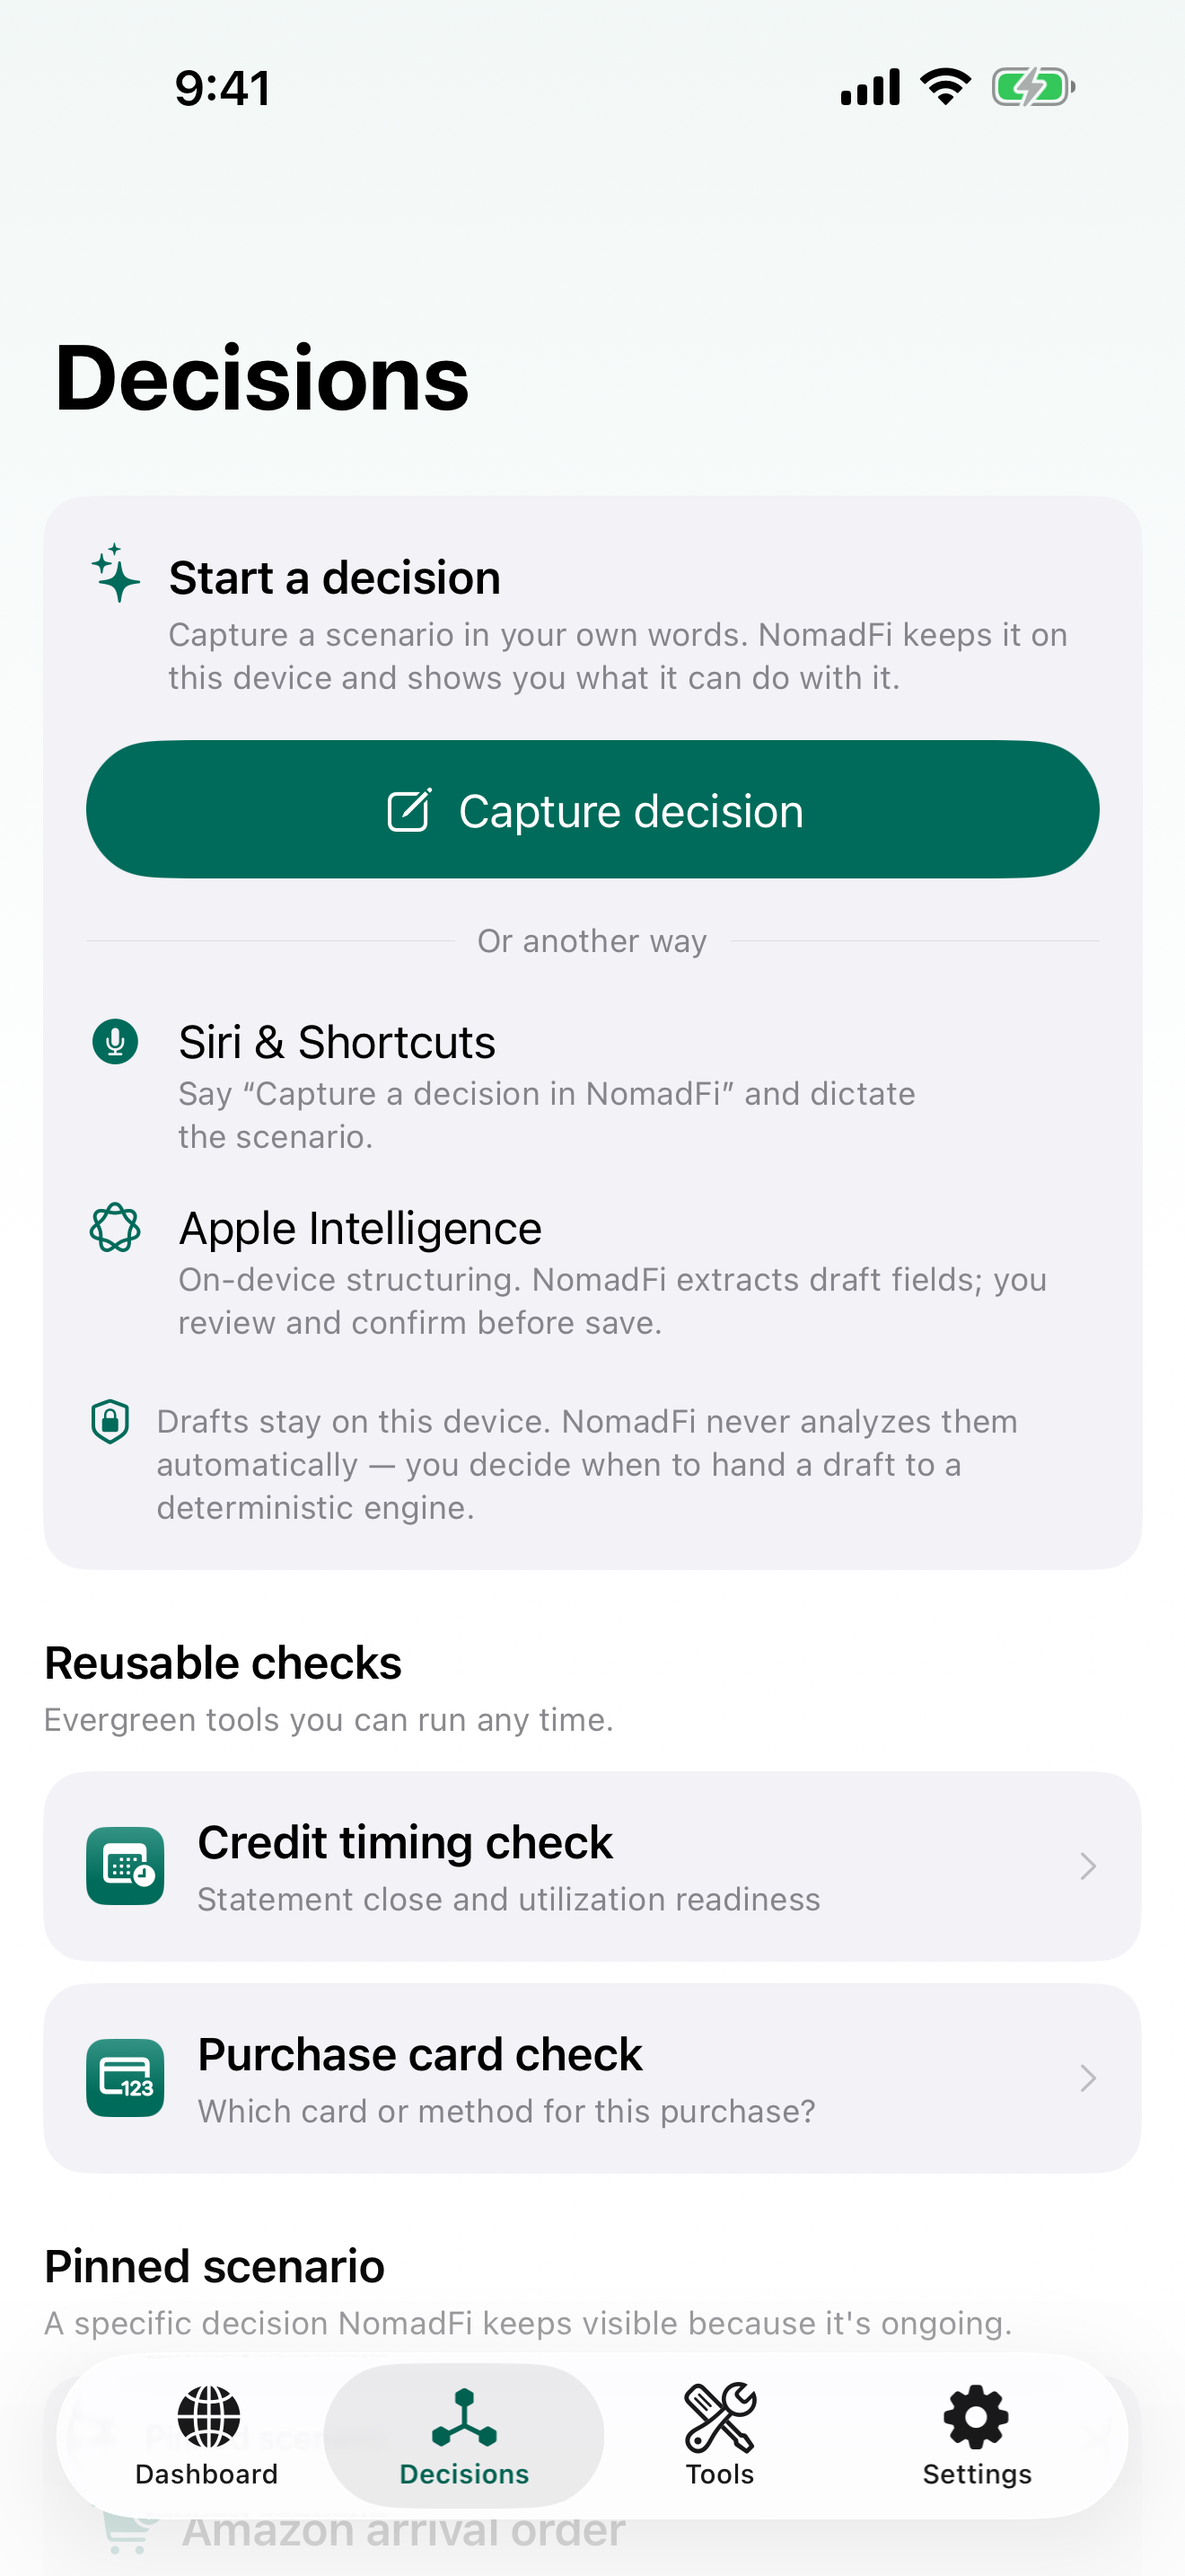
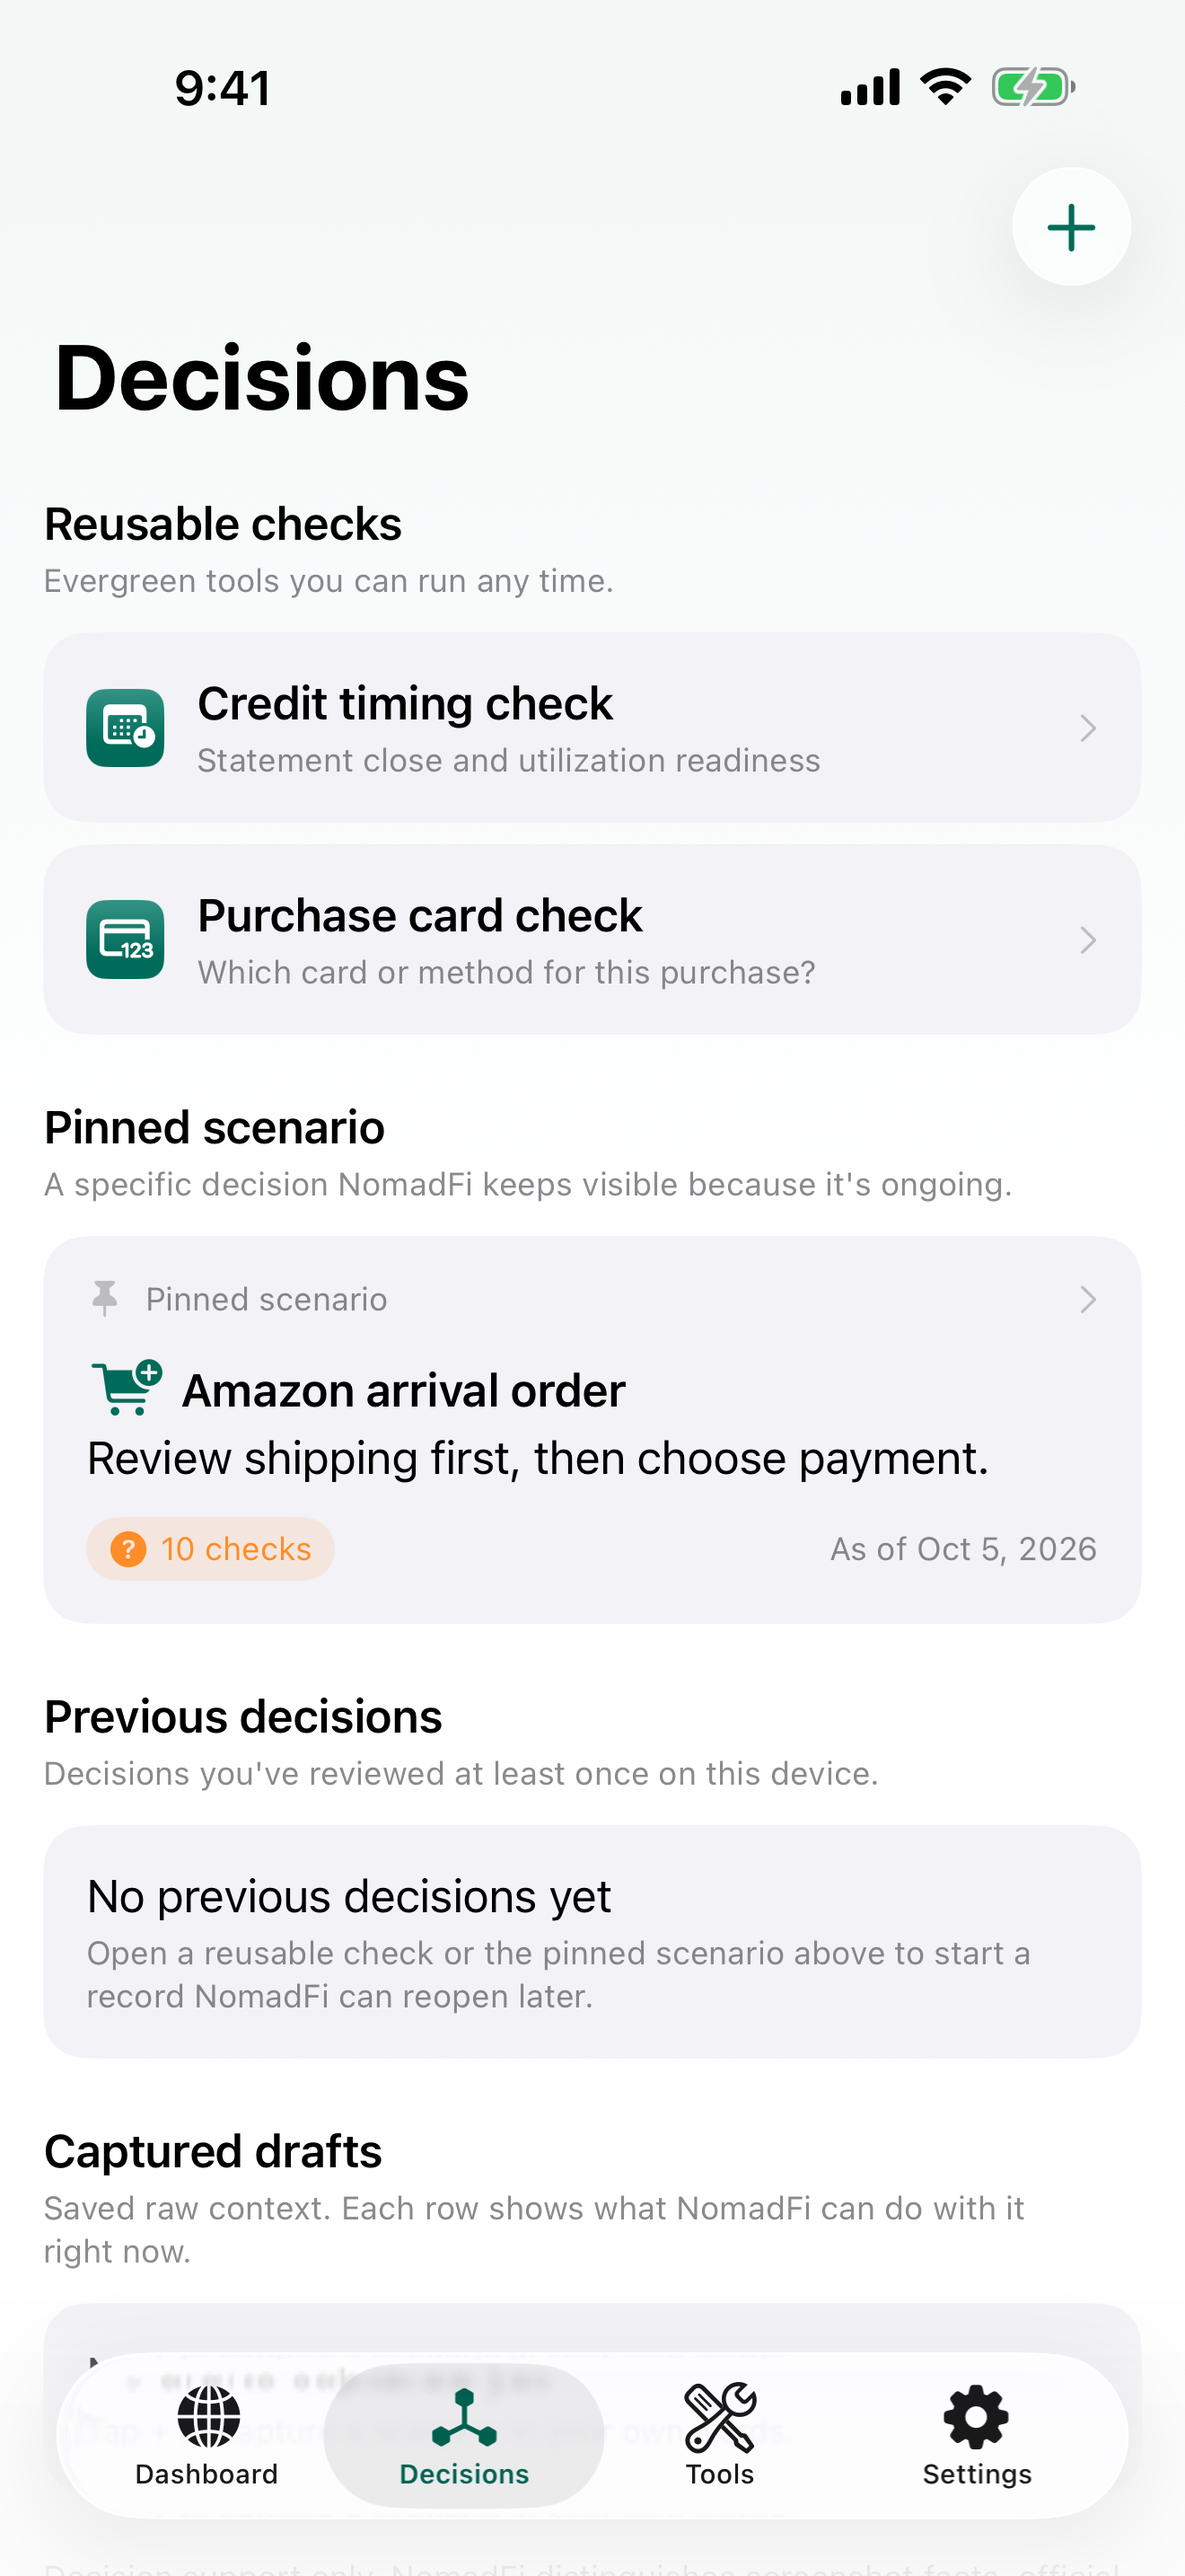
Decisions: capture with a toolbar +, not a hero card
The Decisions tab opened on a large card — a green "Capture decision"
button, an "Or another way" divider, Siri and Apple Intelligence rows,
and a paragraph about drafts — pushing the decisions themselves down.

Capturing is now the toolbar's +, where people already look to add
something. A tap opens the typed form; touch and hold offers "Describe
with Apple Intelligence" (Menu with a primary action, as in Mail's
compose button). The page opens straight onto the reusable checks.
Siri phrases stay discoverable through App Shortcuts in Spotlight and
the Shortcuts app.

CaptureDecisionButton replaces DecisionAssistantCaptureHero. The empty
drafts state now reads "Tap + to capture a scenario in your own words."
testCaptureDecisionFromToolbar covers both the tap and the long press;
the Decisions listing screenshot is recaptured.

diff --git a/NomadFi/NomadFi/Features/DecisionAssistant/DecisionAssistantView.swift b/NomadFi/NomadFi/Features/DecisionAssistant/DecisionAssistantView.swift
@@ -1,19 +1,20 @@
 // DecisionAssistantView.swift
 // NomadFi
 //
-// The Decisions tab's root screen. IA/UI redesign: the surface is
-// organised into six sectioned bands so the user immediately sees
-// (1) how to start a decision, (2) which checks are reusable
-// tools, (3) which scenarios are pinned, (4) which decisions they
-// have actually reviewed, (5) where captured drafts live, and
-// (6) which drafts they have archived. Lower-priority sections
-// progressively disclose so the screen never feels infinite.
+// The Decisions tab's root screen. Capturing a decision is the
+// toolbar's + (a long press offers Apple Intelligence); the page
+// itself is organised into sectioned bands so the user immediately
+// sees (1) which checks are reusable tools, (2) which scenarios are
+// pinned, (3) which decisions they have actually reviewed, (4) where
+// captured drafts live, and (5) which drafts they have archived.
+// Lower-priority sections progressively disclose so the screen never
+// feels infinite.
 //
 // Layout follows Apple's HIG layout + scroll-views + accessibility
 // guidance:
 //   • One primary vertical scroll only.
 //   • Strong section headers per region; calm visual hierarchy.
-//   • Capture decision is the dominant first-viewport command.
+//   • Adding lives in the toolbar, where people look to add things.
 //   • Reusable tools, pinned scenarios, history, and drafts each
 //     read as a different kind of thing.
 //   • Drafts and archived drafts cap at a small preview with a
@@ -154,6 +155,14 @@ struct DecisionAssistantView: View {
             .ignoresSafeArea()
         }
         .navigationTitle("Decisions")
+        .toolbar {
+            ToolbarItem(placement: .primaryAction) {
+                CaptureDecisionButton(
+                    onCapture: { viewModel.presentDraftForm() },
+                    onDescribe: { viewModel.presentAIIntake() }
+                )
+            }
+        }
         .task { viewModel.bootstrap(modelContext: modelContext) }
         .onChange(of: pendingAIIntakeRaw, initial: true) { _, _ in
             consumePendingAIIntakeIfAvailable()
@@ -386,23 +395,20 @@ private struct DecisionAssistantContent: View {
     var body: some View {
         LazyVStack(spacing: SpacingTokens.large) {
 
-            // 1. Capture decision — primary command module.
-            DecisionAssistantCaptureSection(viewModel: viewModel)
-
-            // 2. Reusable checks — evergreen tools.
+            // 1. Reusable checks — evergreen tools.
             DecisionAssistantReusableChecksSection(
                 viewModel: viewModel,
                 onOpenDecision: onOpenDecision
             )
 
-            // 3. Pinned scenario — situational, not a tool.
+            // 2. Pinned scenario — situational, not a tool.
             DecisionAssistantPinnedScenarioSection(
                 viewModel: viewModel,
                 allAccounts: allAccounts,
                 onOpenDecision: onOpenDecision
             )
 
-            // 4. Previous decisions — actually reviewed only.
+            // 3. Previous decisions — actually reviewed only.
             DecisionAssistantHistorySection(
                 viewModel: viewModel,
                 allAccounts: allAccounts,
@@ -410,14 +416,14 @@ private struct DecisionAssistantContent: View {
                 onOpenDecision: onOpenDecision
             )
 
-            // 5. Captured drafts — saved raw context.
+            // 4. Captured drafts — saved raw context.
             DecisionAssistantDraftsSection(
                 items: draftItems,
                 expanded: $draftsExpanded,
                 onDraftTapped: onDraftTapped
             )
 
-            // 6. Archived drafts — only when non-empty.
+            // 5. Archived drafts — only when non-empty.
             if !archivedDraftItems.isEmpty {
                 DecisionAssistantArchivedDraftsSection(
                     items: archivedDraftItems,
@@ -433,21 +439,7 @@ private struct DecisionAssistantContent: View {
     }
 }
 
-// MARK: - 1. Capture decision
-
-private struct DecisionAssistantCaptureSection: View {
-
-    @Bindable var viewModel: DecisionAssistantViewModel
-
-    var body: some View {
-        DecisionAssistantCaptureHero(
-            onCaptureTapped: { viewModel.presentDraftForm() },
-            onAppleIntelligenceTapped: { viewModel.presentAIIntake() }
-        )
-    }
-}
-
-// MARK: - 2. Reusable checks
+// MARK: - 1. Reusable checks
 
 private struct DecisionAssistantReusableChecksSection: View {
 
@@ -475,7 +467,7 @@ private struct DecisionAssistantReusableChecksSection: View {
     }
 }
 
-// MARK: - 3. Pinned scenario
+// MARK: - 2. Pinned scenario
 
 private struct DecisionAssistantPinnedScenarioSection: View {
 
@@ -511,7 +503,7 @@ private struct DecisionAssistantPinnedScenarioSection: View {
     }
 }
 
-// MARK: - 4. Previous decisions
+// MARK: - 3. Previous decisions
 
 private struct DecisionAssistantHistorySection: View {
 
@@ -593,7 +585,7 @@ private struct DecisionAssistantHistoryEmptyState: View {
     }
 }
 
-// MARK: - 5. Captured drafts
+// MARK: - 4. Captured drafts
 
 /// Drafts v3 alignment preserved: each row surfaces evaluator-
 /// derived readiness ("Engine ready", "Add amount first", "Review
@@ -680,7 +672,7 @@ private struct DecisionAssistantDraftsEmptyState: View {
             VStack(alignment: .leading, spacing: SpacingTokens.xxSmall) {
                 Text("No drafts captured yet")
                     .font(TypographyTokens.body)
-                Text("Tap Capture decision above to save a scenario. NomadFi shows what it can do with each draft on its detail sheet — without auto-analyzing anything.")
+                Text("Tap + to capture a scenario in your own words.")
                     .font(TypographyTokens.caption)
                     .foregroundStyle(.secondary)
                     .fixedSize(horizontal: false, vertical: true)
@@ -689,7 +681,7 @@ private struct DecisionAssistantDraftsEmptyState: View {
     }
 }
 
-// MARK: - 6. Archived drafts
+// MARK: - 5. Archived drafts
 
 /// Quieter secondary list of archived drafts. Only renders when
 /// the user actually has archived drafts. Same progressive-

diff --git a/NomadFi/NomadFi/Features/DecisionAssistant/Components/CaptureDecisionButton.swift b/NomadFi/NomadFi/Features/DecisionAssistant/Components/CaptureDecisionButton.swift
@@ -1,0 +1,45 @@
+// CaptureDecisionButton.swift
+// NomadFi
+//
+// The Decisions tab's add button.
+
+import SwiftUI
+
+/// The trailing **+** that captures a decision.
+///
+/// A tap opens the typed form; a long press offers the alternative,
+/// describing the decision to on-device Apple Intelligence — the same
+/// pattern as Mail's compose button. One control in the toolbar, where
+/// people already look to add something, instead of a hero card
+/// competing with the decisions themselves.
+struct CaptureDecisionButton: View {
+
+    /// Opens the typed capture form.
+    let onCapture: () -> Void
+
+    /// Opens the Apple Intelligence intake.
+    let onDescribe: () -> Void
+
+    var body: some View {
+        Menu {
+            Button("Describe with Apple Intelligence", systemImage: "apple.intelligence", action: onDescribe)
+        } label: {
+            Label("Capture Decision", systemImage: "plus")
+        } primaryAction: {
+            onCapture()
+        }
+        .accessibilityHint("Touch and hold to describe it with Apple Intelligence.")
+        .accessibilityIdentifier("decisions.capture")
+    }
+}
+
+#Preview {
+    NavigationStack {
+        Text("Decisions")
+            .toolbar {
+                ToolbarItem(placement: .primaryAction) {
+                    CaptureDecisionButton(onCapture: {}, onDescribe: {})
+                }
+            }
+    }
+}

diff --git a/NomadFi/NomadFiUITests/NomadFiUITests.swift b/NomadFi/NomadFiUITests/NomadFiUITests.swift
@@ -89,6 +89,28 @@ final class NomadFiUITests: XCTestCase {
         add(countryPage)
     }
 
+    /// + captures a decision; touch and hold offers Apple Intelligence.
+    @MainActor
+    func testCaptureDecisionFromToolbar() {
+        let app = makeApp(hasCompletedOnboarding: true)
+        app.launch()
+
+        XCTAssertTrue(app.tabBars.buttons["Decisions"].waitForExistence(timeout: 8))
+        app.tabBars.buttons["Decisions"].tap()
+
+        let capture = app.buttons["decisions.capture"]
+        XCTAssertTrue(capture.waitForExistence(timeout: 8))
+
+        // XCUITest's synthesised press needs longer than a person's
+        // touch-and-hold before the menu replaces the primary action.
+        capture.press(forDuration: 2)
+        XCTAssertTrue(app.buttons["Describe with Apple Intelligence"].waitForExistence(timeout: 8))
+        app.tap()
+
+        capture.tap()
+        XCTAssertTrue(app.navigationBars["Capture decision"].waitForExistence(timeout: 8))
+    }
+
     @MainActor
     func testExchangeRatesOpenFromTools() {
         let app = makeApp(hasCompletedOnboarding: true)

diff --git a/NomadFi/NomadFi/Features/DecisionAssistant/DecisionAssistantViewModel.swift b/NomadFi/NomadFi/Features/DecisionAssistant/DecisionAssistantViewModel.swift
@@ -78,7 +78,7 @@ final class DecisionAssistantViewModel {
 
     /// True when the decision-draft capture sheet is presented.
     /// Owned by the view model so the capture affordance on
-    /// `DecisionAssistantCaptureHero` can be driven through a
+    /// `CaptureDecisionButton` can be driven through a
     /// tested `@Observable` surface instead of scattered `@State`.
     var isDraftFormPresented: Bool = false
 
@@ -210,14 +210,13 @@ final class DecisionAssistantViewModel {
     }
 
     /// Presents the decision-draft capture sheet. Tapped from the
-    /// "Capture decision" button on ``DecisionAssistantCaptureHero``.
+    /// toolbar + (``CaptureDecisionButton``).
     func presentDraftForm() {
         isDraftFormPresented = true
     }
 
     /// Presents the Phase 9A Apple Intelligence intake sheet.
-    /// Tapped from the "Apple Intelligence" supporting row on
-    /// ``DecisionAssistantCaptureHero``.
+    /// Chosen from the long-press menu on ``CaptureDecisionButton``.
     func presentAIIntake() {
         isAIIntakePresented = true
     }

diff --git a/NomadFi/NomadFiTests/DecisionAssistantIATests.swift b/NomadFi/NomadFiTests/DecisionAssistantIATests.swift
@@ -100,11 +100,9 @@ struct DecisionAssistantIATests {
             "Decisions you've reviewed at least once on this device.",
             "Saved raw context. Each row shows what NomadFi can do with it right now.",
             "Hidden from the main list. Tap to restore or delete permanently.",
-            // Empty-state and capture-hero copy:
+            // Empty-state copy:
             "Open a reusable check or the pinned scenario above to start a record NomadFi can reopen later.",
-            "Tap Capture decision above to save a scenario. NomadFi shows what it can do with each draft on its detail sheet — without auto-analyzing anything.",
-            "Capture a scenario in your own words. NomadFi keeps it on this device and shows you what it can do with it.",
-            "Drafts stay on this device. NomadFi never analyzes them automatically — you decide when to hand a draft to a deterministic engine.",
+            "Tap + to capture a scenario in your own words.",
         ]
 
         for phrase in prohibited {

diff --git a/NomadFi/NomadFiWidgetExtension/AIIntakeControlWidget.swift b/NomadFi/NomadFiWidgetExtension/AIIntakeControlWidget.swift
@@ -24,9 +24,9 @@
 //     unconfigurable controls when there's a single clear action.)
 //   • `ControlWidgetButton` over `Toggle` — the action *opens an
 //     in-app surface*; it doesn't toggle persistent state.
-//   • `apple.intelligence` SF Symbol — same glyph the in-app
-//     `DecisionAssistantCaptureHero` uses for its Apple
-//     Intelligence row, so the control reads as the same affordance
+//   • `apple.intelligence` SF Symbol — same glyph as the
+//     "Describe with Apple Intelligence" item in the Decisions
+//     tab's + menu, so the control reads as the same affordance
 //     across surfaces.
 //   • `displayName` and `description` are explicit and concise per
 //     HIG ("clear, action-first labelling for controls").

diff --git a/NomadFi/NomadFiWidgetExtension/DraftCaptureControlWidget.swift b/NomadFi/NomadFiWidgetExtension/DraftCaptureControlWidget.swift
@@ -20,10 +20,9 @@
 //   surface they actually use.
 //
 // Symbol vocabulary (deliberate visual distinction):
-//   • `square.and.pencil` — typed manual capture. Same SF
-//     Symbol the in-app `DecisionAssistantCaptureHero` uses for
-//     its primary "Capture decision" button, so the affordance
-//     reads as the same control across surfaces.
+//   • `square.and.pencil` — typed manual capture. Out of
+//     context in Control Center, a bare + would not say what it
+//     adds; in the app the same action is the Decisions tab's +.
 //   • `apple.intelligence` — AI intake (sibling control). The
 //     two symbols make the path selection unmistakable at a
 //     glance, with no reliance on color alone (HIG inclusivity
